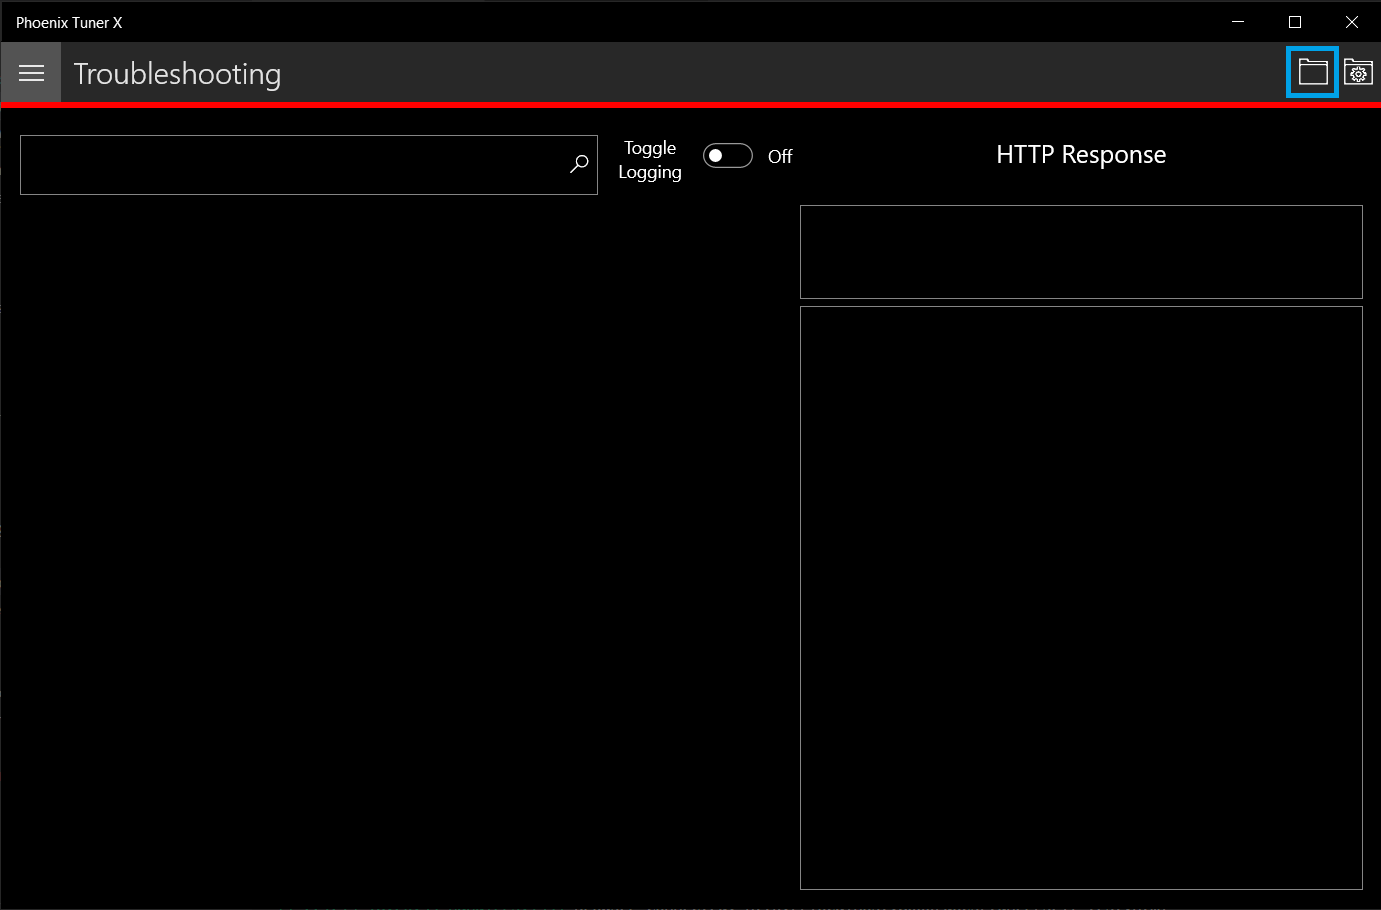
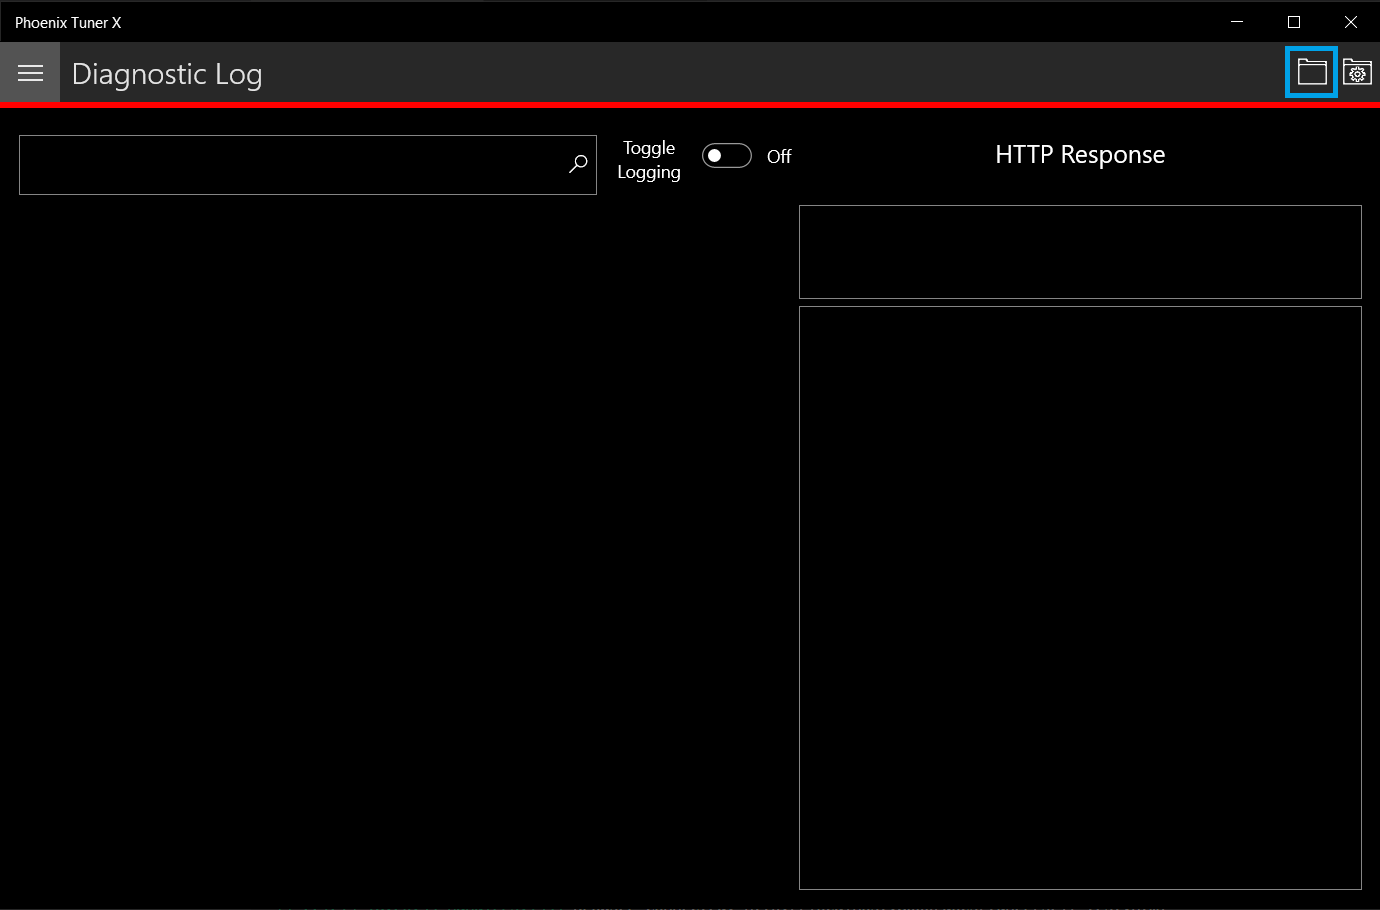
Fix grammar and update Diagnostic Log page image

diff --git a/source/docs/canivore/canivore-config.rst b/source/docs/canivore/canivore-config.rst
@@ -22,7 +22,7 @@ caniv - CANivore CLI
 
 .. note:: Unlike the CANivores page in Phoenix Tuner X, ``caniv`` does **not** require a running Phoenix Diagnostic Server.
 
-On Linux systems (including the roboRIO), ``caniv`` can be found at ``/usr/local/bin``. On Windows systems, the program is in the Phoenix Tuner X application cache directory, which can be opened by opening the :guilabel:`Diagnostics Log` page and clicking the left folder icon in the top right:
+On Linux systems (including the roboRIO), ``caniv`` can be found at ``/usr/local/bin``. On Windows systems, the program is in the Phoenix Tuner X application cache directory, which can be opened by opening the :guilabel:`Diagnostic Log` page and clicking the left folder icon in the top right:
 
 .. image:: images/canivore-application-cache-folder.png
    :width: 70%

diff --git a/source/docs/tuner/index.rst b/source/docs/tuner/index.rst
@@ -10,7 +10,7 @@ Phoenix Tuner is the companion application allowing you to configure, analyze, u
 
 Phoenix Tuner X supports Android 8.0+ and Windows 10 (1903+) and Windows 11.
 
-.. important:: While CTR-Electronics supports both Phoenix Tuner v1 and Phoenix Tuner X, certain features such as device licensing and improved batch upgrading is only available in Phoenix Tuner X.
+.. important:: While CTR-Electronics supports both Phoenix Tuner v1 and Phoenix Tuner X, certain features such as device licensing and improved batch upgrading are only available in Phoenix Tuner X.
 
 .. tip:: Many UI elements contain hover tooltips. That means the user can hover over them with their mouse for a text explanation of what they do.
 
